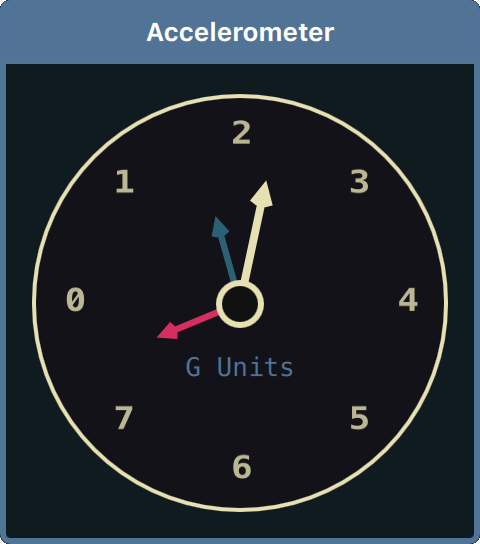
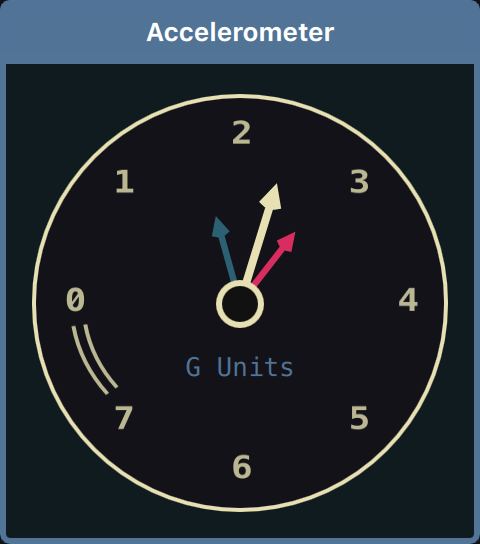
Add separator between 7G & 0G

Changed region(s): [[0.5, 0.3125, 0.625, 0.5312], [0.125, 0.5938, 0.25, 0.7188], [0.3125, 0.5625, 0.4688, 0.625]]

diff --git a/assets/qml/Widgets/AccelerometerDelegate.qml b/assets/qml/Widgets/AccelerometerDelegate.qml
@@ -155,6 +155,20 @@ Window {
                 ctx.font = "bold 18px " + app.monoFont
                 ctx.fillStyle = accel.indicatorColor
                 ctx.fillText(i, dX, dY)
+
+                if (i === 7) {
+                    var x = gauge.width / 2
+                    var y = gauge.height / 2
+                    ctx.lineWidth = 2
+                    ctx.strokeStyle = accel.indicatorColor
+
+                    ctx.beginPath();
+                    ctx.arc(x, y, Math.abs(dX - x) + 21, theta * 1.05, Math.PI * 0.95)
+                    ctx.stroke()
+                    ctx.beginPath();
+                    ctx.arc(x, y, Math.abs(dX - x) + 15, theta * 1.05, Math.PI * 0.95)
+                    ctx.stroke()
+                }
             }
         }
     }
